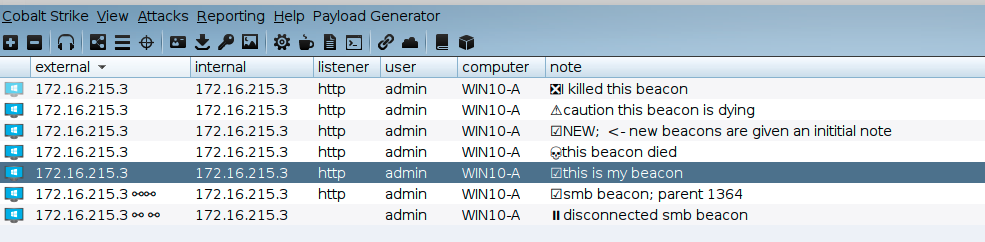
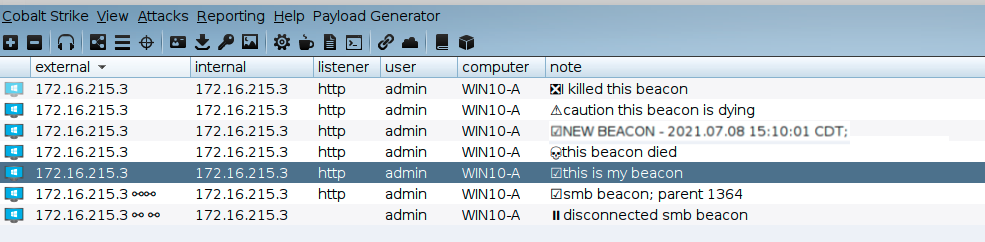
initial code

Changed region(s): [[0.5482, 0.5207, 0.9137, 0.5785]]

diff --git a/readme.md b/readme.md
@@ -6,50 +6,59 @@ Joe Vest (Twitter: @joevest)
 
 This aggressor script uses a beacon's note field to indicate the health status of a beacon. This is done by ...
 
-- Keeping track of each beacon's current sleep time
-- Calculating health based on the "max expected checkin time"
+- Tracking the each beacon's current sleep/jitter time
+- Calculating health based on a "max expected checkin time"
 - Updating the note field with an approriate icon every minute using the event `heartbeat_1m`
+- Labeling new beacons as "NEW" with the time of arival
+- Adding beacon id and PID to the iniital beacon event log message
 
-### Heath Checks and Icons
+## Heath Checks and Icons
 
-#### ☑ - symbol indicates beacon as active and working
+### ☑ - symbol indicates beacon as active and working
 
-Calculated as last checkin is less than max expected check-in time (sleep + (sleep * jitter))
+Calculated as last checkin is less than max expected check-in time `(sleep + (sleep * .01 * jitter))`
 
-i.e., A beacon with `sleep 300 20` would have a max expected check-in time of 300 + (300 * .01 * 20) or 360). 
+i.e., A beacon with `sleep 300 20` would have a max expected check-in time of `360` calculated as `300 + (300 * .01 * 20)`. 
 
-#### 💀 - symbol indicates beacon has died
+### 💀 - symbol indicates beacon has died
 
-Calculated as last checkin time is greater then max expected check-in time * 2 (dead time)
+Calculated as last checkin time is greater then max expected check-in time * 2. This is known as the "dead time".
 
-i.e., A beacon with `sleep 300 20` would have a dead time of 720. 
+i.e., A beacon with `sleep 300 20` would have a dead time of `720`. 
 
-#### ❎ - symbol indicates beacon has been killed by an operator.
+### ❎ - symbol indicates beacon has been killed by an operator.
 
-If beacon['alive'] is false, then an opertor killed this beacon and the beacon acknowleded this command.
+If `beacon['alive']` is false, then an opertor killed/exited this beacon and the beacon acknowleded the exit command.
 
-#### ⚠ - symbol indicates beacon as dying
+### ⚠ - symbol indicates beacon as dying
 
 Calculated as last checkin is greater than the max expected check-in time and less than the dead time. 
 
-#### ⏸ - symbol indicates the beacon as paused. 
+### ⏸ - symbol indicates the beacon as paused. 
 
-This is a linked beacon that has been disconnected but is still considered alive. These beacons depend on a parent for communication. Instead of marking these dead, they are marked paused. There is no great way to track disconnected beacons.
+This is a linked beacon that has been disconnected but is still considered alive. These beacons depend on a parent for communication. Instead of marking these dead, they are marked paused. There is no great way to track processes of disconnected beacons.
 
-The following shows what these icons look like in the Cobalt Strike client
+The following shows what these icons look like in the Cobalt Strike client.
 
-![](beacon_health_status.png)
+![Beacon Health Status Icons](beacon_health_status.png)
+
+The beacon Id and PID has been added to the initial beacon event log message.
+
+![Additional info in the event log for new beacons](new_beacon_info.png)
 
 ## Usage
 
 Load the beaconhealth.cna file through the script manager.
 
+Use the `get_BeaconHealthCheck_settings` function in the script console to view the beacon sleep/jitter tracker.
+
 ## What you should know about the script
 
-- It uses the Note field. You are free to edit as you like. The symbol will be updated during a health check
-- Linked beacons do not have a sleep. Sleeps are tracked by the parent of a linked beacons
-- Sleep settings are not verified before tracking. Setting sleep on a dead beacon may cause the symbol to change
+- It uses the Note field. You are free to edit as you like. The first character of the note will be updated during a health check with the appropriate symbol.
+- Linked beacons do not have a sleep. Sleeps are tracked by the parent of the linked beacon
+- Sleep settings are not verified before tracked. Setting sleep on a dead beacon may cause the symbol to change before the actual sleep has been processed by the beacon.
 - The health check is designed to monitor longer running beacons.
   - Health is measured every minute
   - This may still be too aggressive
   - You can adjust the timing by changing the heartbeat event that kicks off a check.
+- The tracking database is not persistent. If you close the Cobalt Strike client and reconnect, the database will be refreshed and beacons may be marked as **NEW**
